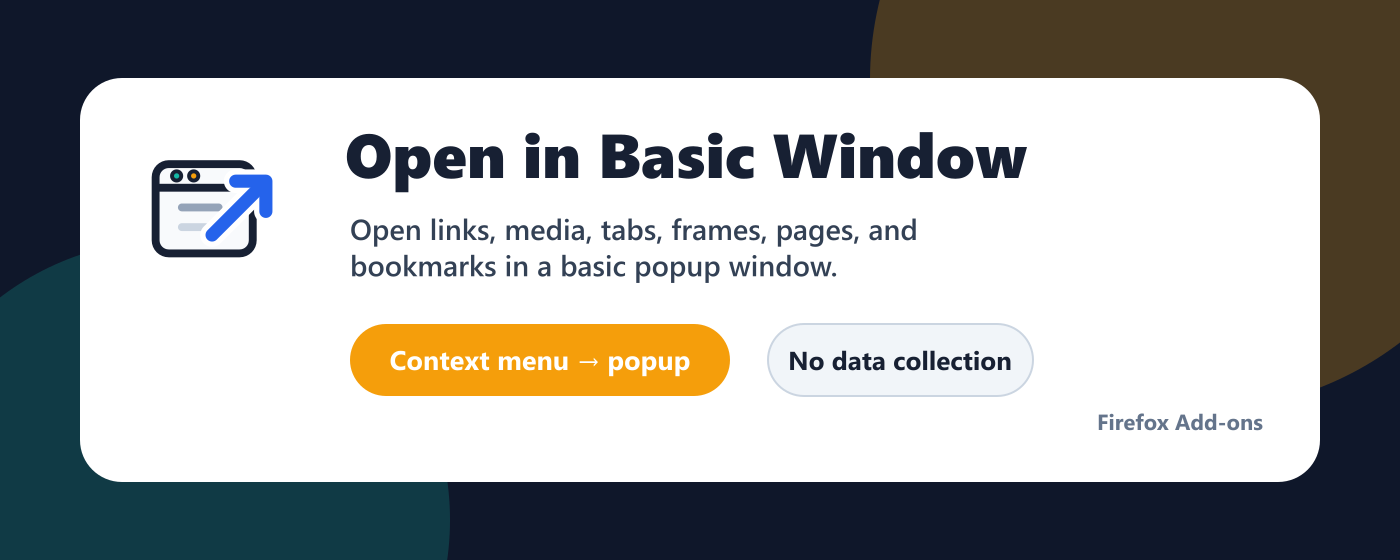
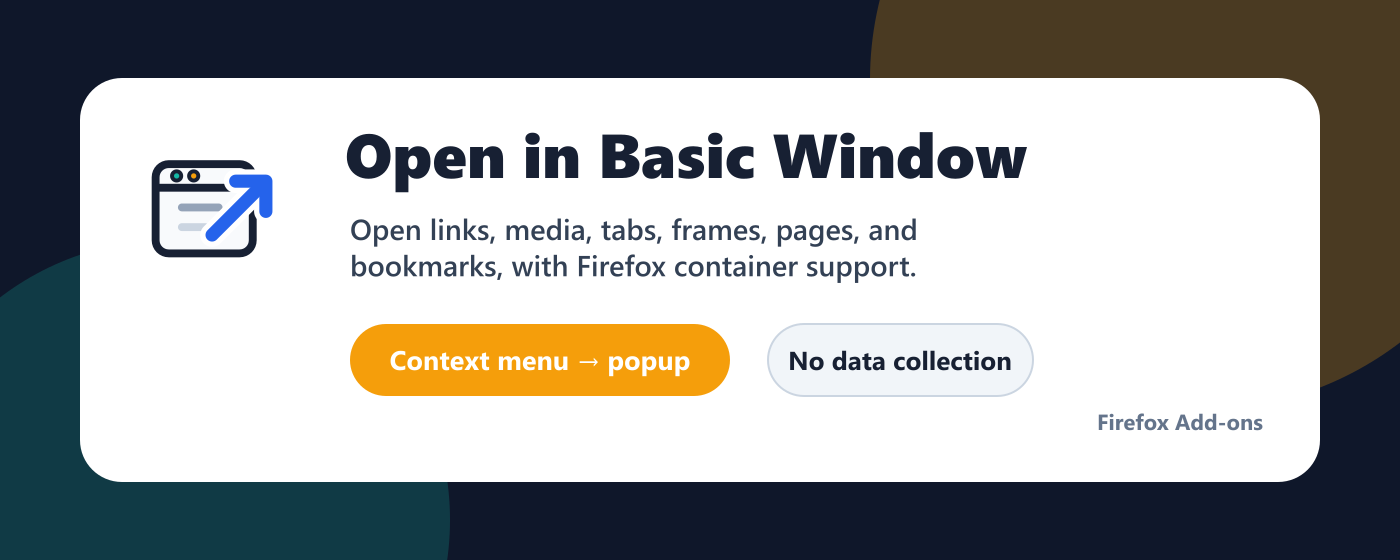
Update store assets for Firefox-only features

Changed region(s): [[0.3379, 0.4554, 0.645, 0.5161]]

diff --git a/docs/screenshot-capture-guide.md b/docs/screenshot-capture-guide.md
@@ -12,7 +12,7 @@ Open in Basic Window is intentionally utility-focused and has no flashy in-exten
 - Capture the extension's strongest differentiators:
   - link/media/page/tab support
   - popup-style window result
-  - Firefox bookmark support
+  - Firefox-only bookmark support
   - Firefox container preservation
   - no-data, local-only privacy posture
 
@@ -43,7 +43,8 @@ Recommended:
 
 - Show the address bar.
 - Show tabs when they help explain the "source tab to popup window" flow.
-- Hide the bookmarks bar for Chrome and Edge screenshots unless the screenshot is specifically about bookmarks.
+- Hide the bookmarks bar for Chrome and Edge screenshots.
+- Use bookmark UI only in Firefox screenshots because bookmark context-menu support is Firefox-only.
 - Hide unrelated extension icons.
 - Use a clean browser profile with only Open in Basic Window installed/enabled.
 - Use light mode unless your store listing intentionally targets dark mode.
@@ -204,6 +205,7 @@ Setup:
 - Open the bookmarks toolbar or bookmarks sidebar.
 - Right-click a neutral bookmark.
 - Context menu shows "Open in Basic Window".
+- Do not stage bookmark screenshots in Chrome or Edge; those builds do not request the `bookmarks` permission or register the bookmark context.
 
 Recommended layout:
 
@@ -230,6 +232,7 @@ Setup:
 - Open a neutral page in that container.
 - Use Open in Basic Window from a supported tab/page/link context.
 - Capture the resulting popup window with the same container indicator visible.
+- Do not stage container-preservation screenshots in Chrome or Edge; those builds do not request `cookies` or `contextualIdentities`.
 
 Composition:
 
@@ -291,7 +294,8 @@ Use explicit names so store uploads are easy to select:
 ### Chrome
 
 - Use horizontal tabs.
-- Hide bookmarks bar unless needed.
+- Hide bookmarks bar; Chrome does not support the extension's bookmark context.
+- Avoid container-identity claims; Chrome does not support Firefox contextual identities.
 - Keep the toolbar minimal.
 - First screenshot should be context menu on a link or image.
 
@@ -299,6 +303,8 @@ Use explicit names so store uploads are easy to select:
 
 - Use horizontal tabs for the main screenshots.
 - Avoid vertical tabs unless creating an Edge-specific secondary screenshot.
+- Hide bookmarks bar; Edge does not support the extension's bookmark context.
+- Avoid container-identity claims; Edge does not support Firefox contextual identities.
 - Hide sidebar features if they distract from the extension behavior.
 - Keep shopping/sidebar/profile UI out of the capture.
 

diff --git a/assets/store/README.md b/assets/store/README.md
@@ -34,7 +34,8 @@ Screenshots should show actual extension behavior:
 
 - Context menu with "Open in Basic Window".
 - Resulting popup-style browser window.
-- Representative link, image/media, page/tab, and Firefox bookmark behavior where practical.
+- Representative link, image/media, and page/tab behavior.
+- Firefox-only bookmark and container-preservation behavior where practical. Do not show bookmark context-menu support or container identity preservation in Chrome or Edge assets.
 
 Keep editable source files and exported images in this directory so future releases can update listing assets consistently.
 
@@ -55,6 +56,8 @@ Promotional images:
 - `promo/chrome-marquee-1400x560.png`
 - `promo/edge-marquee-1400x560.png`
 - `promo/firefox-marquee-1400x560.png`
+
+Chrome and Edge promotional images should describe link, media, tab, frame, and page support only. Firefox promotional images may also mention bookmarks and container-aware popup behavior.
 
 Editable SVG sources are stored under `source/` with matching names.
 
